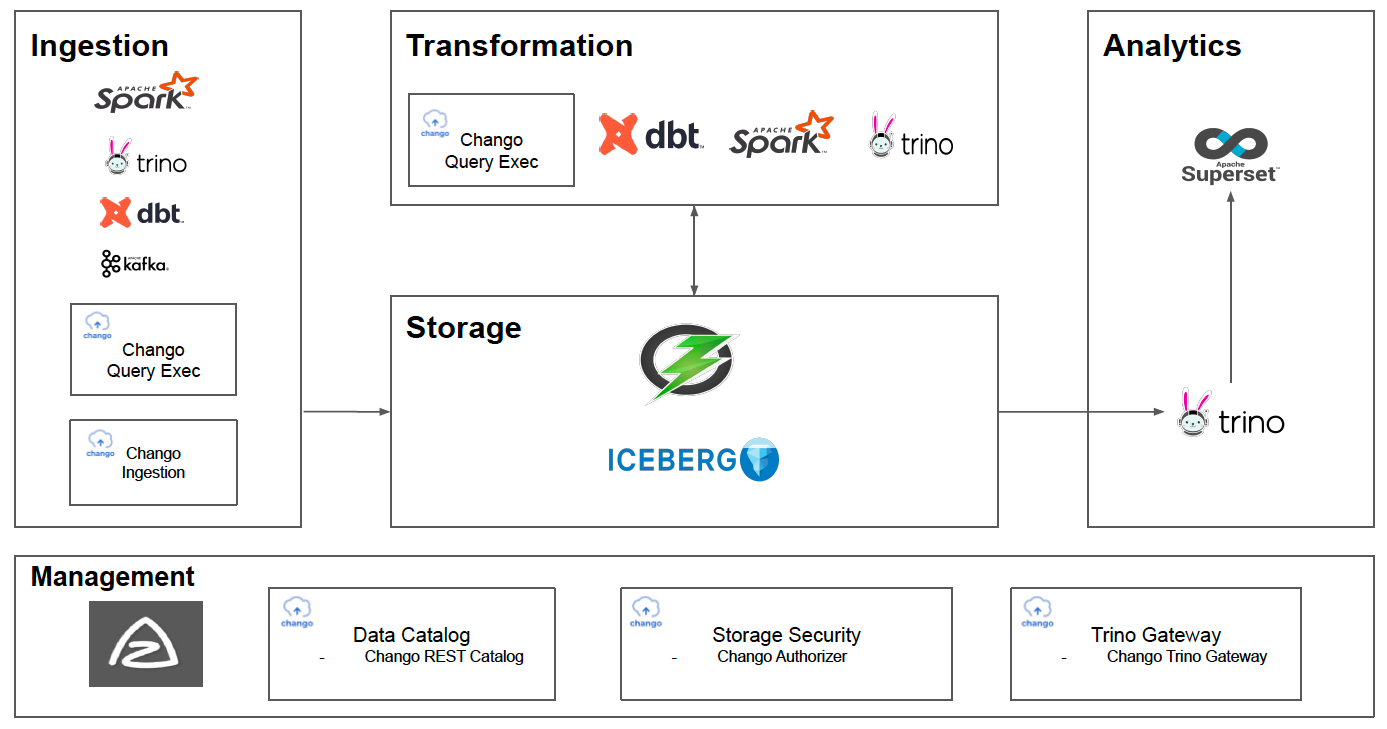
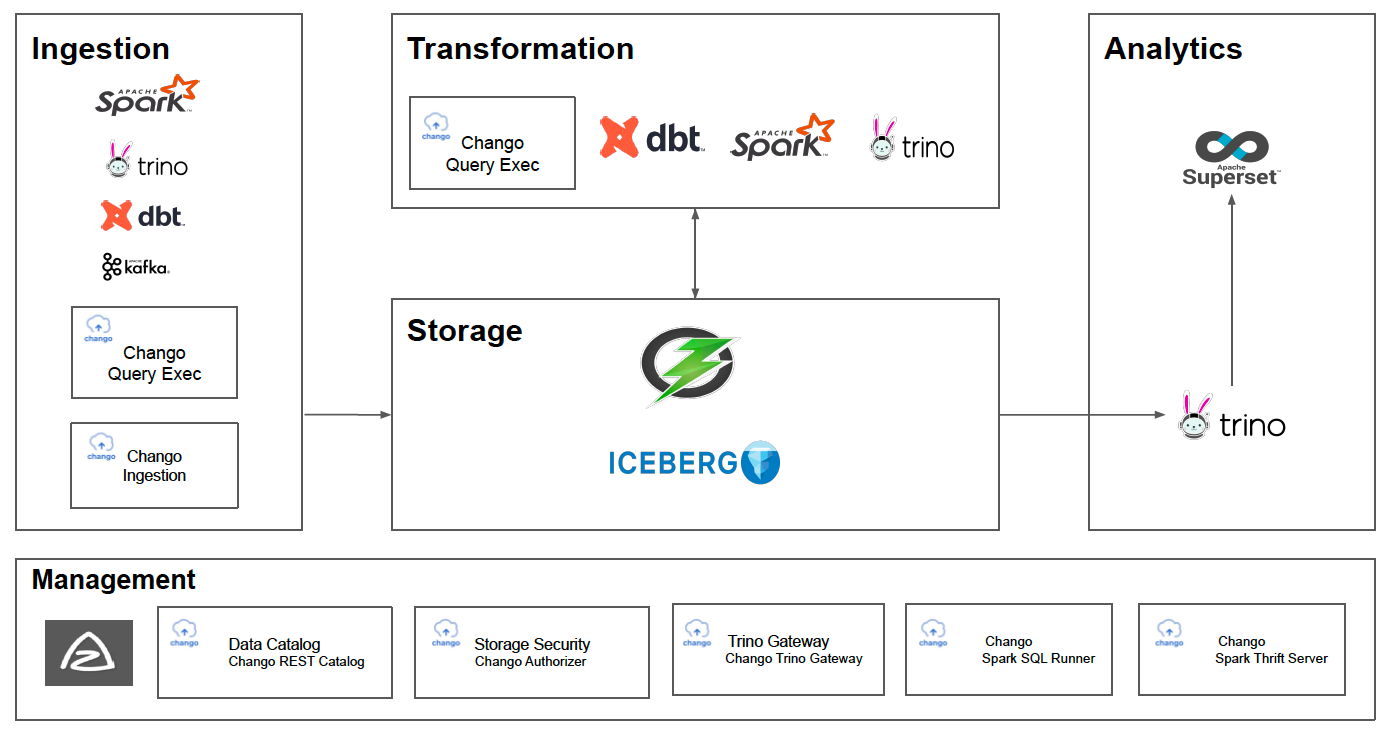
.

diff --git a/docs/intro/intro.md b/docs/intro/intro.md
@@ -27,14 +27,16 @@ In `Transformation` layer:
 
 In `Analytics` layer:
 
-- `Trino` will be used as query engine to explore all the data in Chango.
+- `Trino` is used as query engine to explore all the data in Chango.
 - `BI` tools like `Apache Superset` will connect to `Trino` to run queries through `Chango Trino Gateway`.
 
 In `Management` layer:
 
-- `Azkaban` will be used as workflow. All the batch jobs like ETL will be integrated with `Azkaban`.
-- `Chango REST Catalog` will be used as data catalog in Chango.
+- `Azkaban` is used as workflow. All the batch jobs like ETL will be integrated with `Azkaban`.
+- `Chango REST Catalog` is Iceberg REST Catalog and used as data catalog in Chango.
 - Chango Private supports storage security to control data access based on RBAC in Chango. `Chango Authorizer` will be used for it.
 - `Chango Trino Gateway` is an implementation of Trino Gateway concept. `Chango Trino Gateway` provides several features like authentication, authorization, smart query routing(routing to less exhausted trino clusters), trino cluster activation/deactivation. For more details, see <a href="../../features/trino-gw/">Chango Trino Gateway</a>.
+- `Chango Spark SQL Runner` exposes REST API to which clients send spark sql queries using REST to execute spark queries.
+- `Chango Thrift Server` exposes JDBC/Thrift to which clients send spark sql queries using JDBC/Thrift to execute spark queries.
 
  
